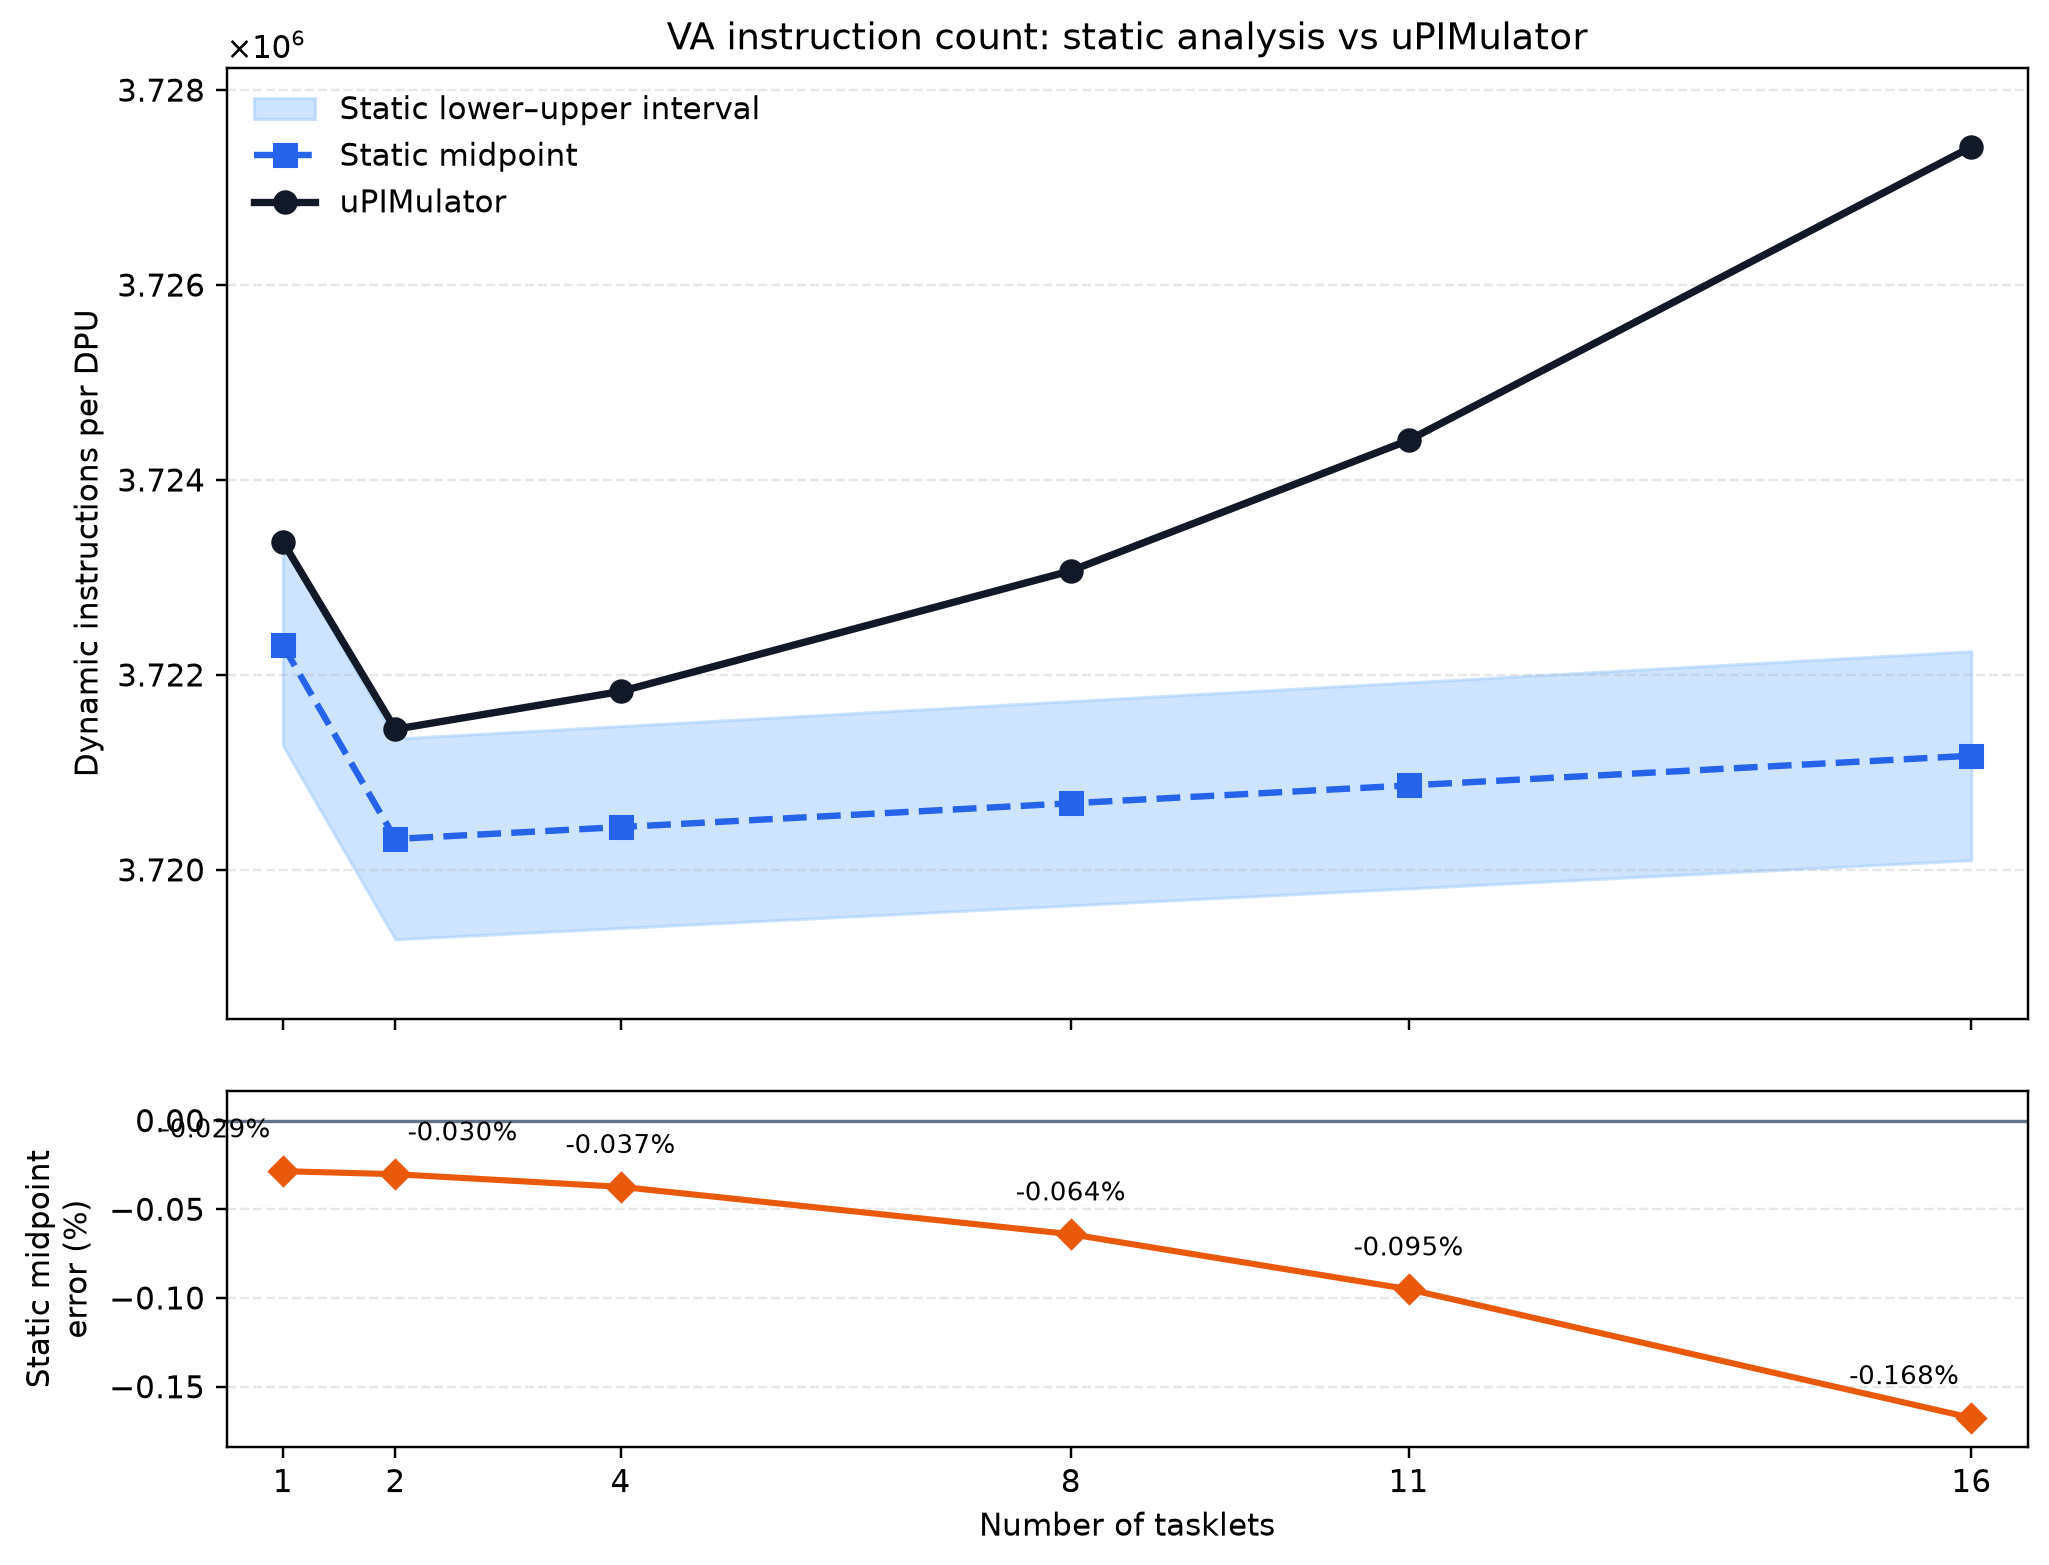
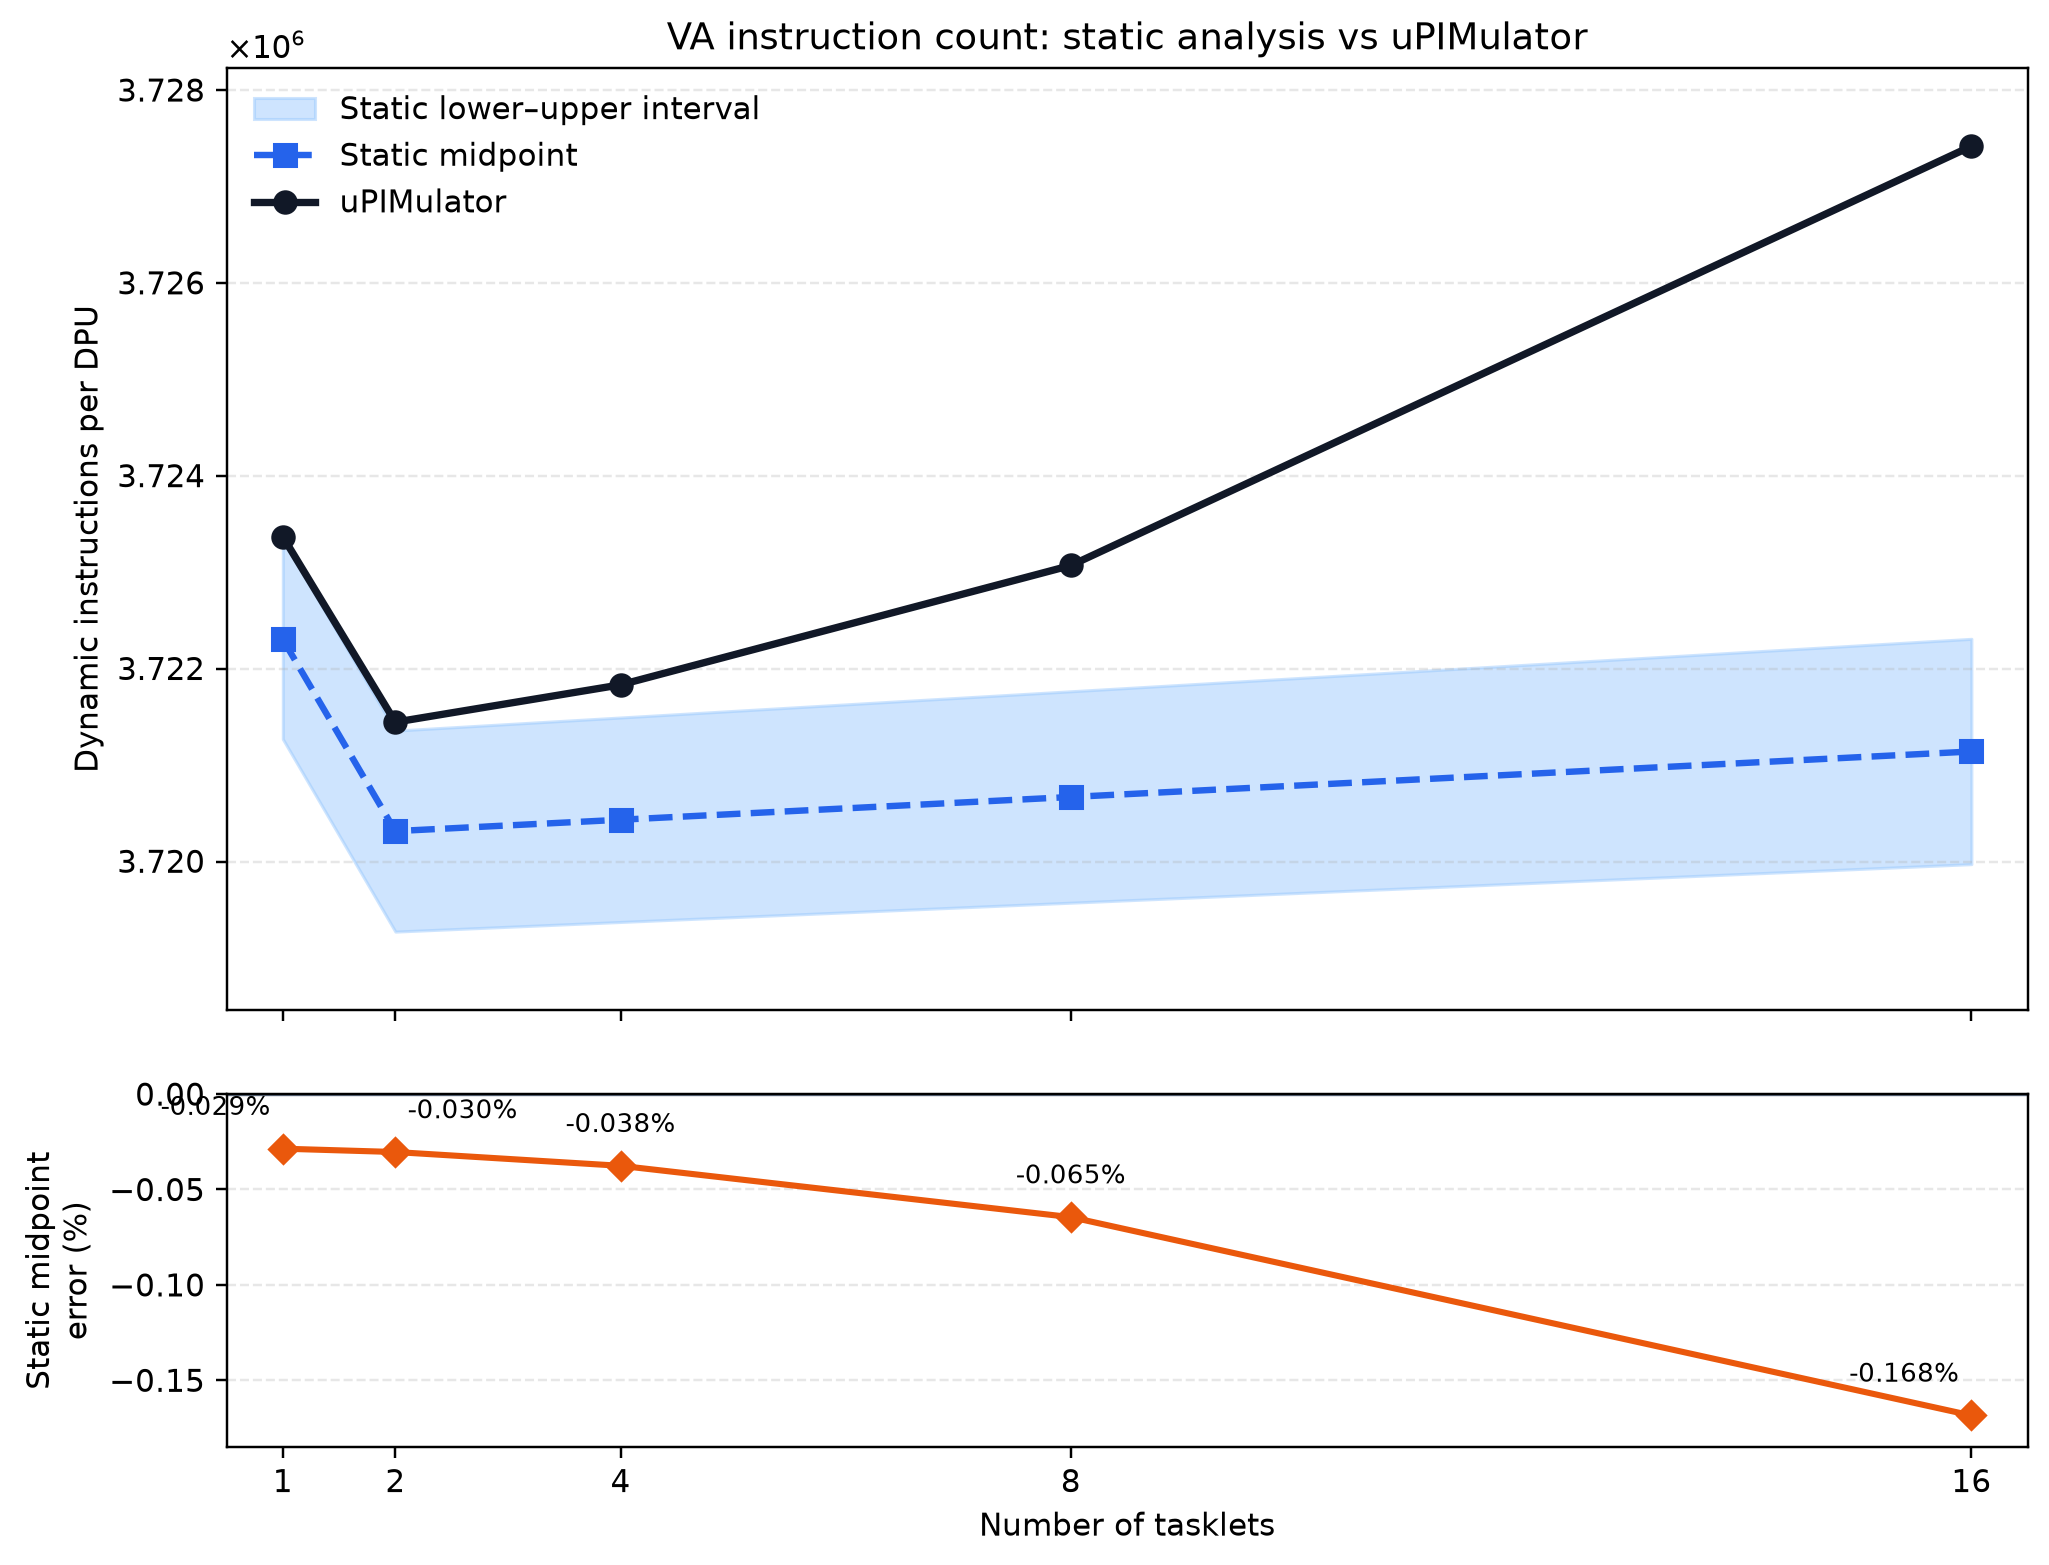
save result, almost

diff --git a/draw_figs/scripts/compare_instruction_counts.py b/draw_figs/scripts/compare_instruction_counts.py
@@ -11,7 +11,21 @@ from typing import Any
 from aggregate_simulator_results import aggregate_setting
 
 
-SUPPORTED_BENCHMARKS = ("va",)
+SUPPORTED_BENCHMARKS = (
+    "bs",
+    "gemv",
+    "hst-l",
+    "hst-s",
+    "mlp",
+    "red",
+    "scan-rss",
+    "scan-ssa",
+    "sel",
+    "trns",
+    "ts",
+    "uni",
+    "va",
+)
 
 
 def parse_args() -> argparse.Namespace:
@@ -57,7 +71,9 @@ def load_static_rows(
         for row in csv.DictReader(input_file):
             if row["benchmark"].lower() != benchmark:
                 continue
-            tasklets = int(row["tasklets"])
+            if row.get("experiment") != "tasklet_sweep":
+                continue
+            tasklets = int(row["num_tasklets"])
             lower = float(row["instructions_lower"])
             upper = float(row["instructions_upper"])
             rows[tasklets] = {
@@ -90,6 +106,8 @@ def load_simulator_rows(
     # The main aggregation intentionally excludes T=11. Read any missing
     # tasklet setting through the same per-setting aggregation function.
     for metadata_path in sorted(raw_results.rglob("metadata.txt")):
+        if not (metadata_path.parent / "log.txt").is_file():
+            continue
         setting = aggregate_setting(metadata_path.parent)
         if not setting:
             continue
@@ -252,8 +270,16 @@ def write_plot(
     count_range = max(all_counts) - min(all_counts)
     padding = max(300.0, 0.10 * count_range)
     count_axis.set_ylim(min(all_counts) - padding, max(all_counts) + padding)
-    error_padding = max(0.01, 0.12 * (max(errors) - min(errors)))
-    error_axis.set_ylim(min(errors) - error_padding, error_padding)
+    error_range = max(errors) - min(errors)
+    error_padding = max(
+        0.01,
+        0.12 * error_range,
+        0.05 * max(abs(error) for error in errors),
+    )
+    error_axis.set_ylim(
+        min(0.0, min(errors) - error_padding),
+        max(0.0, max(errors) + error_padding),
+    )
     error_axis.set_xlim(min(tasklets) - 0.5, max(tasklets) + 0.5)
 
     path.parent.mkdir(parents=True, exist_ok=True)
@@ -268,7 +294,7 @@ def run_benchmark(args: argparse.Namespace, benchmark: str) -> None:
         project_root
         / "inst_count_analyzer"
         / "results"
-        / f"{benchmark_upper}_tasklet_sweep"
+        / benchmark_upper
         / "instruction_counts.csv"
     )
     simulator_summary = args.simulator_summary or (
